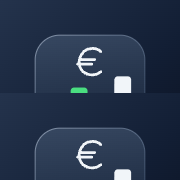
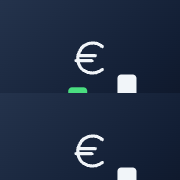
Eliminar el doble marco del icono de Finanzas

Changed region(s): [[0.1667, 0.1667, 0.8056, 0.5278], [0.1667, 0.6944, 0.8056, 1.0], [0.3611, 0.4722, 0.5, 0.5278]]

diff --git a/sw.js b/sw.js
@@ -2,7 +2,7 @@
 // y también sin conexión. Los datos (Firestore), el login (Google) y las cotizaciones (prices.json) nunca pasan por aquí.
 //
 // Sube la versión de CACHE cada vez que cambie la lista PRECACHE (por ejemplo al actualizar Chart.js o Firebase).
-const CACHE = "finanzas-v6";
+const CACHE = "finanzas-v7";
 const PRECACHE = [
   "./",
   "./index.html",
